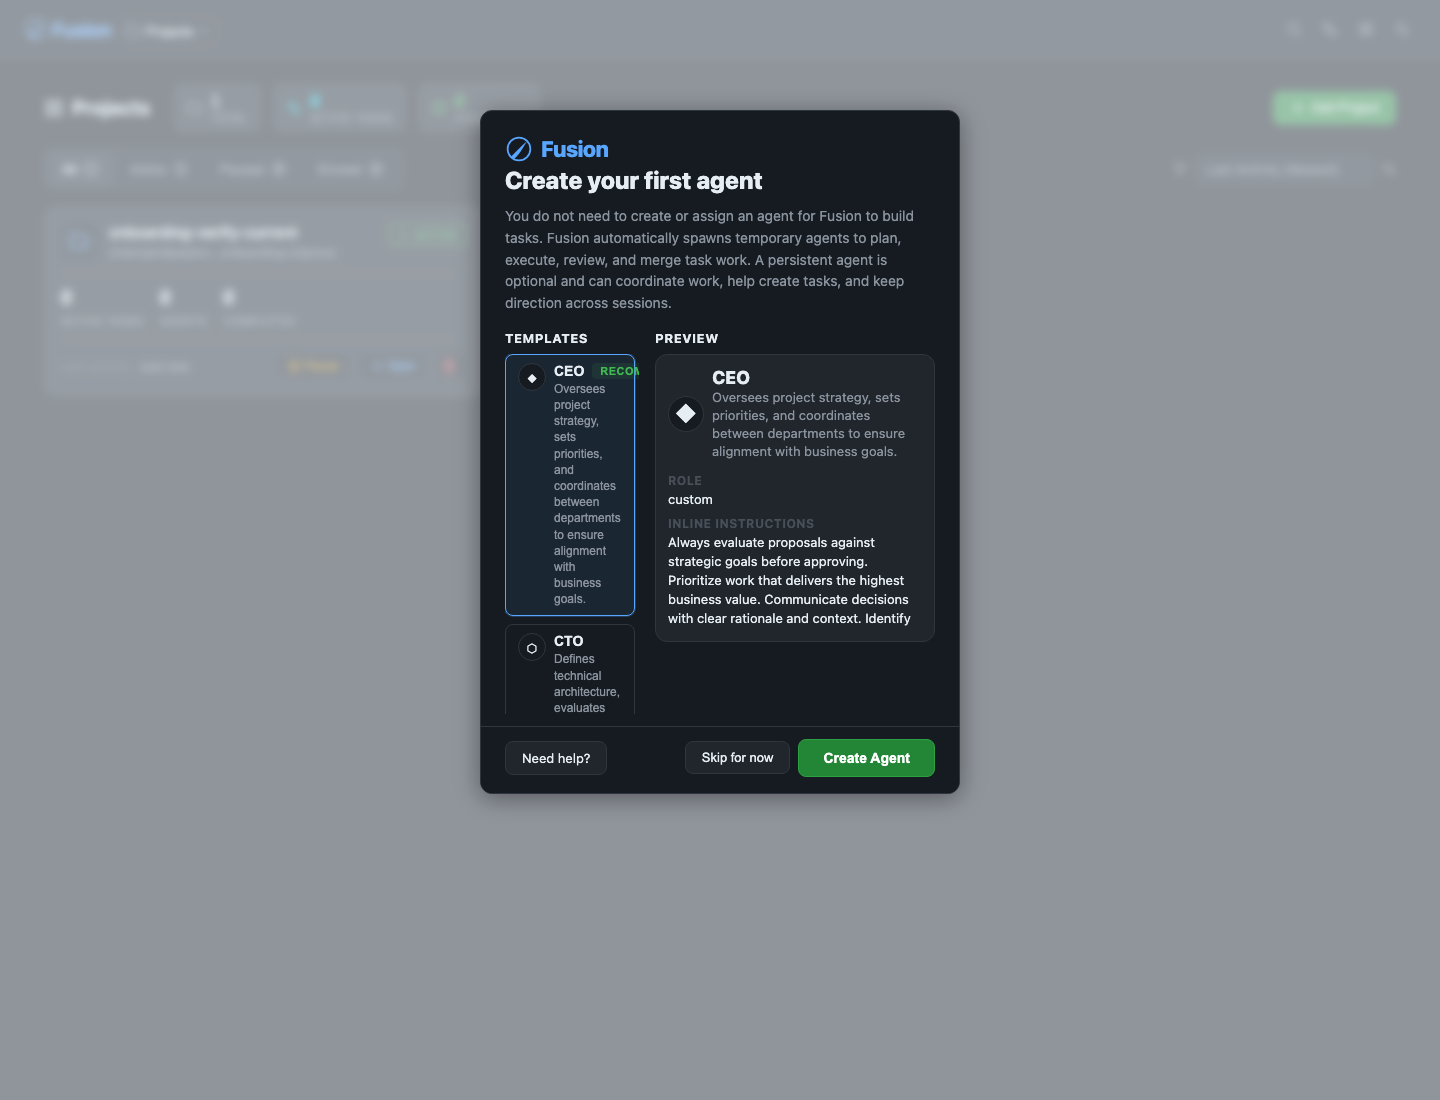
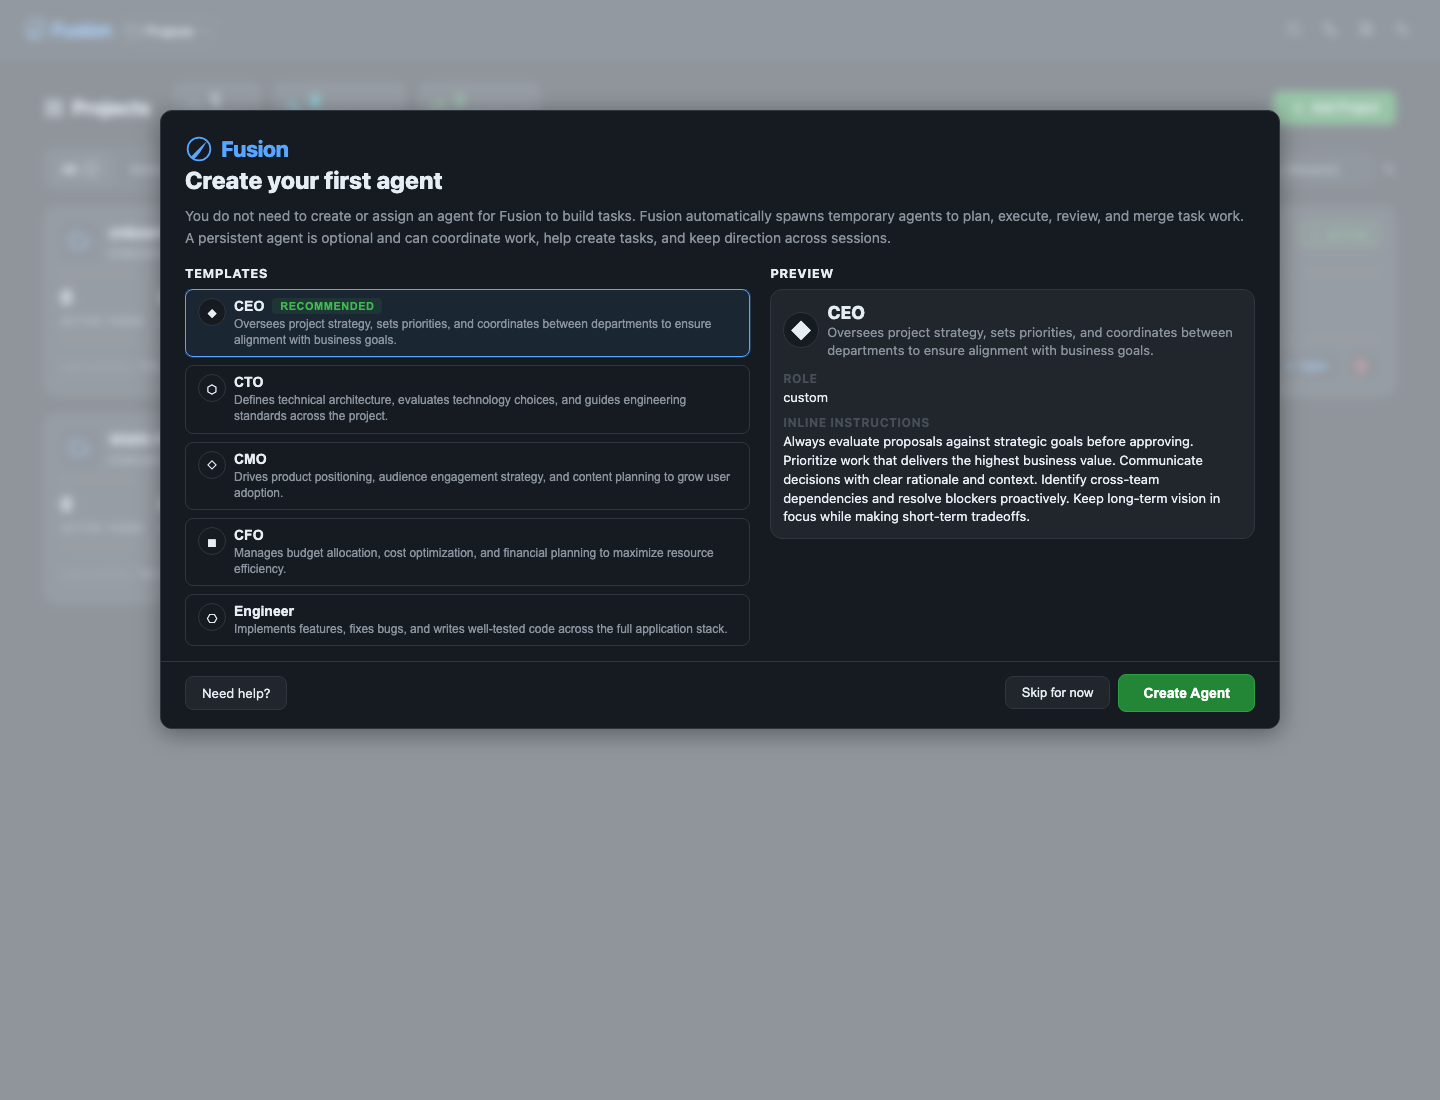
fix(onboarding): widen project agent setup

diff --git a/packages/dashboard/app/components/SetupWizardModal.css b/packages/dashboard/app/components/SetupWizardModal.css
@@ -31,7 +31,7 @@
   overscroll-behavior: contain;
 }
 
-.setup-wizard-modal {
+.modal.setup-wizard-modal {
   display: flex;
   flex-direction: column;
   max-width: 880px;
@@ -43,6 +43,11 @@
   overflow: hidden;
   /* Prevent flex parents from squeezing this below its content's needs. */
   flex-shrink: 0;
+}
+
+.modal.setup-wizard-modal--agent {
+  max-width: 1120px;
+  width: min(96vw, 1120px);
 }
 
 @keyframes slideUp {
@@ -329,7 +334,7 @@
 
 .setup-wizard-agent-layout {
   display: grid;
-  grid-template-columns: minmax(0, 1.05fr) minmax(280px, 0.95fr);
+  grid-template-columns: minmax(360px, 1.08fr) minmax(320px, 0.92fr);
   gap: var(--space-lg);
   align-items: start;
 }

diff --git a/packages/dashboard/app/components/SetupWizardModal.tsx b/packages/dashboard/app/components/SetupWizardModal.tsx
@@ -267,10 +267,16 @@ export function SetupWizardModal({
     ? getPresetById(state.selectedPresetId)
     : undefined;
   const isAgentActionDisabled = state.isCreatingAgent;
+  /*
+   FNXC:Onboarding 2026-06-22-05:37:
+   The optional project-agent step needs more horizontal room than project details so templates and preview can be compared side by side.
+   Keep the wider modal scoped to the agent step so the initial project form stays compact.
+   */
+  const modalClassName = `modal setup-wizard-modal${state.step === "agent" ? " setup-wizard-modal--agent" : ""}`;
 
   return (
     <div className="modal-overlay open setup-wizard-overlay" role="dialog" aria-modal="true" aria-labelledby="wizard-title">
-      <div className="modal setup-wizard-modal">
+      <div className={modalClassName}>
         {/* Header */}
         <div className="setup-wizard-header">
           <div className="setup-wizard-heading">